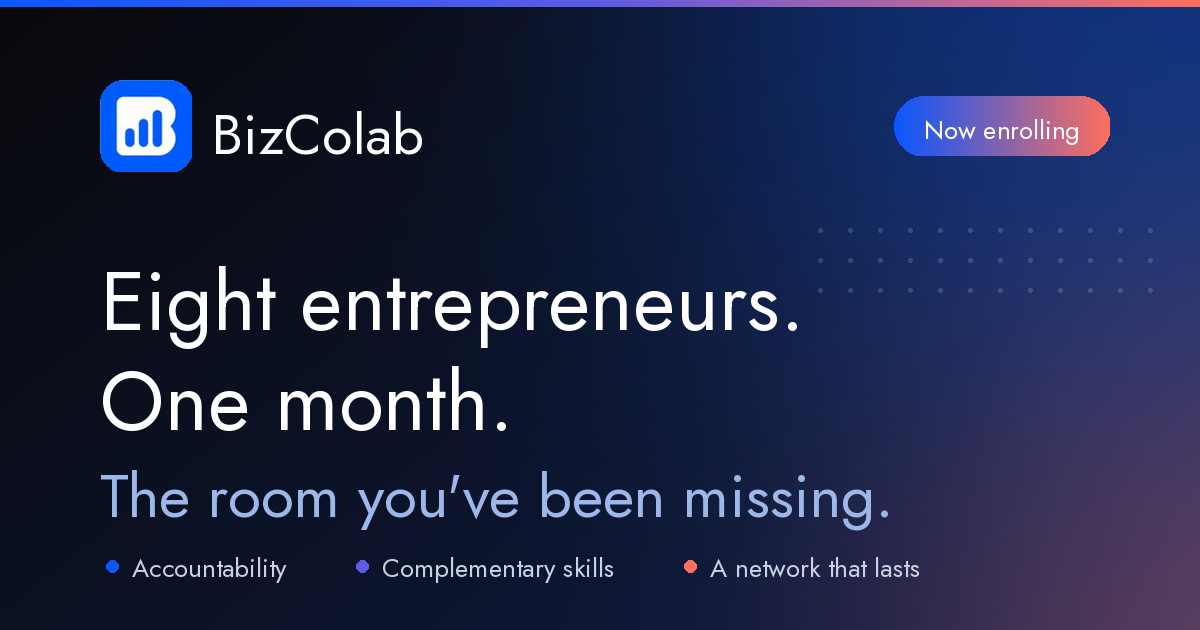
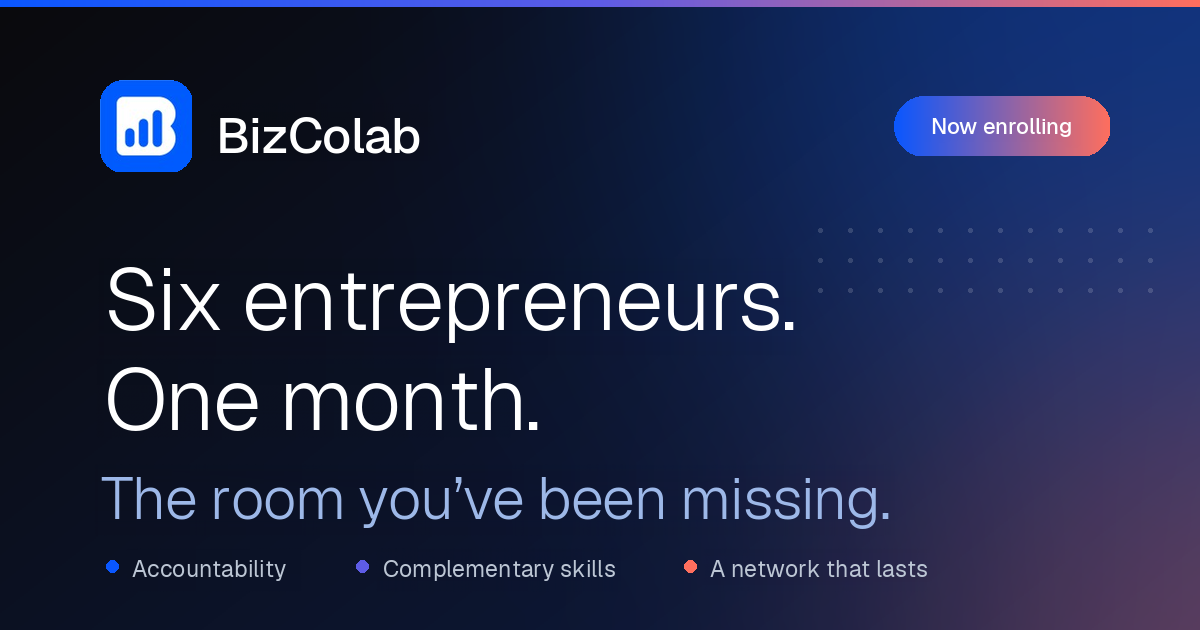
OG card: Six entrepreneurs (was Eight); add og-home-v2.png and repoint all meta tags for a cache-busted preview

diff --git a/join/index.html b/join/index.html
@@ -12,8 +12,8 @@
   <meta property="og:url" content="https://bizcolab.com/join/">
   <meta property="og:title" content="Six people in your corner. The team you've been missing.">
   <meta property="og:description" content="A curated room of six founders and operators plus one facilitator. One focused month: real accountability, honest feedback, and a network that lasts. Founding cohort now enrolling.">
-  <meta property="og:image" content="https://bizcolab.com/og-home.png">
-  <meta property="og:image:secure_url" content="https://bizcolab.com/og-home.png">
+  <meta property="og:image" content="https://bizcolab.com/og-home-v2.png">
+  <meta property="og:image:secure_url" content="https://bizcolab.com/og-home-v2.png">
   <meta property="og:image:type" content="image/png">
   <meta property="og:image:width" content="1200">
   <meta property="og:image:height" content="630">
@@ -23,7 +23,7 @@
   <meta name="twitter:card" content="summary_large_image">
   <meta name="twitter:title" content="Six people in your corner. The team you've been missing.">
   <meta name="twitter:description" content="A curated room of six founders and operators plus one facilitator. One focused month — real accountability, honest feedback, and a network that lasts.">
-  <meta name="twitter:image" content="https://bizcolab.com/og-home.png">
+  <meta name="twitter:image" content="https://bizcolab.com/og-home-v2.png">
   <link rel="icon" href="https://bizcolab.com/favicon.ico" sizes="any">
   <link rel="icon" type="image/png" sizes="32x32" href="https://bizcolab.com/favicon-32.png">
   <link rel="apple-touch-icon" sizes="180x180" href="https://bizcolab.com/favicon-180.png">

diff --git a/index.html b/index.html
@@ -16,7 +16,7 @@
 <meta property="og:title" content="BizColab — A Mastermind Cohort for Founders &amp; Operators" />
 <meta property="og:description" content="A curated 4-week room of six operators: real accountability, complementary skills, honest feedback, and a network that lasts. Now enrolling." />
 <meta property="og:url" content="https://bizcolab.com/" />
-<meta property="og:image" content="https://bizcolab.com/og-home.png" />
+<meta property="og:image" content="https://bizcolab.com/og-home-v2.png" />
 <meta property="og:image:width" content="1200" />
 <meta property="og:image:height" content="630" />
 <meta property="og:image:alt" content="BizColab — Six founders. One month. The room you have been missing." />
@@ -26,7 +26,7 @@
 <meta name="twitter:card" content="summary_large_image" />
 <meta name="twitter:title" content="BizColab — A Mastermind Cohort for Founders &amp; Operators" />
 <meta name="twitter:description" content="A curated 4-week room of six operators: accountability, complementary skills, honest feedback, and a lasting network. Now enrolling." />
-<meta name="twitter:image" content="https://bizcolab.com/og-home.png" />
+<meta name="twitter:image" content="https://bizcolab.com/og-home-v2.png" />
 
 <!-- AI / AEO: explicitly allow major AI crawlers on the public homepage -->
 <meta name="GPTBot" content="index, follow" />

diff --git a/accelerate/index.html b/accelerate/index.html
@@ -164,11 +164,11 @@ mark{background:var(--hl);color:var(--ink);padding:0 .12em;border-radius:3px;}
 <meta property="og:url" content="https://bizcolab.com/accelerate/">
 <meta property="og:title" content="Accelerate your business through strategic collaboration — BizColab">
 <meta property="og:description" content="A curated room of six operators, for one focused month. 6 founding seats, by application.">
-<meta property="og:image" content="https://bizcolab.com/og-home.png">
+<meta property="og:image" content="https://bizcolab.com/og-home-v2.png">
 <meta name="twitter:card" content="summary_large_image">
 <meta name="twitter:title" content="Accelerate your business through strategic collaboration — BizColab">
 <meta name="twitter:description" content="A curated room of six operators, for one focused month. 6 founding seats, by application.">
-<meta name="twitter:image" content="https://bizcolab.com/og-home.png">
+<meta name="twitter:image" content="https://bizcolab.com/og-home-v2.png">
 </head>
 <body>
 

diff --git a/apply/index.html b/apply/index.html
@@ -13,7 +13,7 @@
 <meta property="og:url" content="https://bizcolab.com/apply/">
 <meta property="og:title" content="Six founders. One month. The room you've been missing.">
 <meta property="og:description" content="A curated cohort of six operators. One focused month — real accountability, honest feedback, and a network that lasts. Now enrolling.">
-<meta property="og:image" content="https://bizcolab.com/og-home.png">
+<meta property="og:image" content="https://bizcolab.com/og-home-v2.png">
 
 <link rel="icon" href="https://bizcolab.com/favicon.ico" sizes="any">
 <link rel="icon" type="image/png" sizes="32x32" href="https://bizcolab.com/favicon-32.png">

diff --git a/privacy/index.html b/privacy/index.html
@@ -14,7 +14,7 @@
 <meta property="og:title" content="Privacy Policy — BizColab" />
 <meta property="og:description" content="How BizColab collects, uses, and protects your information." />
 <meta property="og:url" content="https://bizcolab.com/privacy/" />
-<meta property="og:image" content="https://bizcolab.com/og-home.png" />
+<meta property="og:image" content="https://bizcolab.com/og-home-v2.png" />
 <meta property="og:image:width" content="1200" />
 <meta property="og:image:height" content="630" />
 <meta property="og:locale" content="en_US" />
